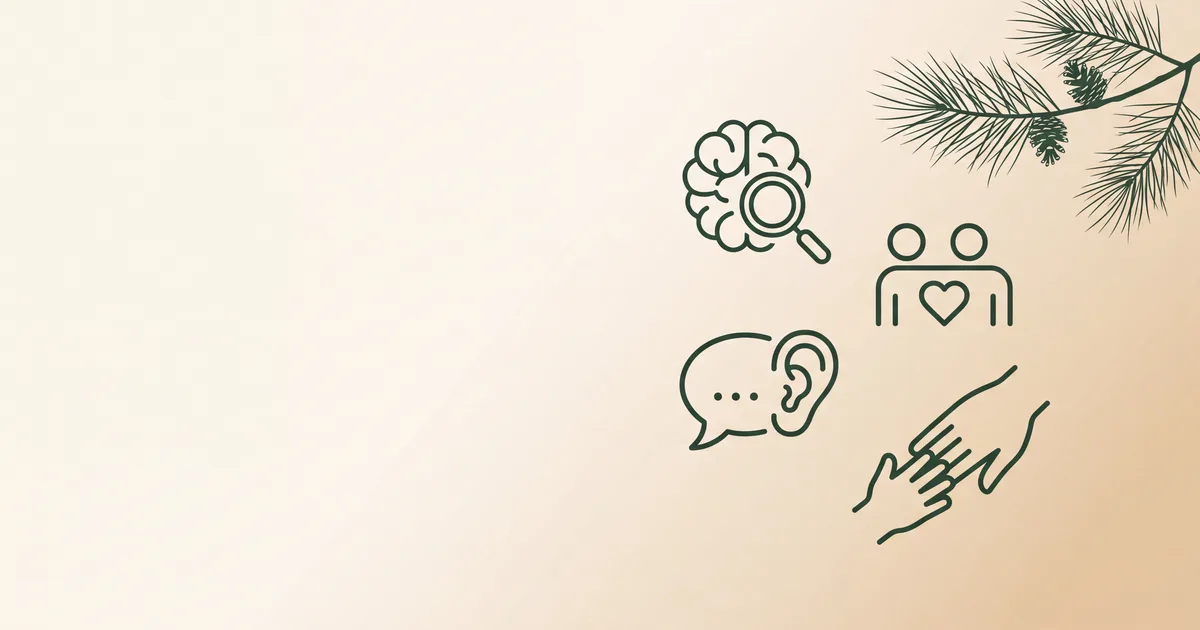
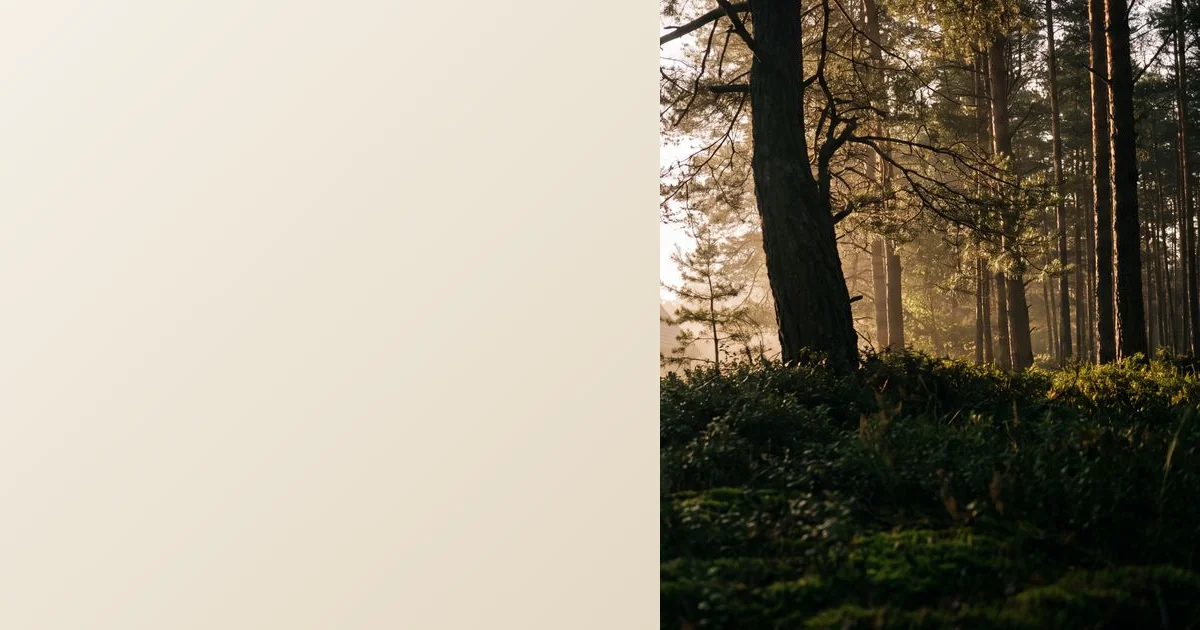
feat(assets): integrate audited Pobrane hero and process images
Replace hero, OG, process-care, and trust WebPs with PASS-rated
generations from Pobrane/otwock audit; document verdicts in ASSETS v2.2.

diff --git a/ASSETS-NANO-BANANA-2.md b/ASSETS-NANO-BANANA-2.md
@@ -1,11 +1,73 @@
 # ASSETS-NANO-BANANA-2 — production-grade prompty OOWiT
 
-> **Wersja:** 2.0 (lipiec 2026)  
+> **Wersja:** 2.2 (lipiec 2026)  
 > **Generator:** Nano Banana 2  
 > **Paleta:** pine-900 `#1E3A2B`, pine-700 `#2C5240`, sand-50 `#F5F0E6`, sand-200 `#E3D8C4`, wood-700 `#6B4A2E`, clay-400 `#C4A98A`  
 > **Region:** Mazowieckie Otwock — sosnowy mikroklimat uzdrowiska, architektura świdermajerska. **NIE** Tatry, Zakopane, Alpy.
 
-**Mapowanie na kod (bez zmian w repo):** pliki docelowe w `public/images/`. Nazwy poniżej są kanoniczne dla v2; starsze aliasy (`hero-otwock-forest-16x9.webp` itd.) — patrz tabela na końcu.
+---
+
+## Audyt Pobrane/otwock (2026-07-09)
+
+Źródło: `/home/itmaster/Pobrane/otwock/` · integracja: `node scripts/integrate-pobrane-assets.mjs`
+
+| Plik (najnowsze →) | Werdykt | Asset docelowy / akcja |
+|--------------------|---------|------------------------|
+| `referencyjne.jpg` | **PASS** (kotwica stylu) | Nie deploy — tylko reference do Nano Banana |
+| `Generated Image … 4_20PM.jpg` | **FAIL** | Tatry/Zakopane — góry, chaty podhalańskie — odrzucone |
+| `Generated Image … 4_16PM.jpg` | **FAIL** | Wnętrze z ludźmi — nie pasuje do `interior-si-room` (pusty pokój) |
+| `Generated Image … 4_10PM.jpg` | **PARTIAL** | Ikony procesu — OK paleta, ale gorsze niż 3_40PM; nie użyte |
+| `Generated Image … 4_06PM.jpg` | **FAIL** | Styl tatrzański + tilt-shift blur — odrzucone |
+| `Generated Image … 4_03PM.jpg` | **FAIL** | AI twarz — nie na produkcję (team = klient dostarcza) |
+| `Generated Image … 4_00PM.jpg` | **FAIL** | Ikona checkerboard w pikselach — odrzucone |
+| `Generated Image … 3_58PM.jpg` | **FAIL** | Ikona VR + checkerboard — odrzucone |
+| `Generated Image … 3_55PM.jpg` | **FAIL** | Ikona 3 osoby + checkerboard — odrzucone |
+| `Generated Image … 3_53PM (1).jpg` | **FAIL** | Duplikat ikony + checkerboard — odrzucone |
+| `Generated Image … 3_53PM.jpg` | **FAIL** | Ikona VR + checkerboard — odrzucone |
+| `Generated Image … 3_48PM.jpg` | **FAIL** | Ikona SI + checkerboard — odrzucone |
+| `Generated Image … 3_42PM.jpg` | **FAIL** | Ikona osoba + dymek + checkerboard — odrzucone |
+| `Generated Image … 3_40PM.jpg` | **PASS** | ✅ `process-care-3steps.webp` |
+| `Generated Image … 3_38PM.jpg` | **FAIL** | Tylko tekstura drewna — brak mapowania w briefie |
+| `Generated Image … 3_37PM.jpg` | **PASS** | ✅ `hero-otwock-fullscreen-desktop.webp`, `og-home.webp` |
+| `Generated Image … 3_36PM.jpg` | **PASS** | ✅ `hero-otwock-fullscreen-mobile.webp`, `local-otwock-trust.webp` |
+
+**Status assetów:**
+
+| # | Asset | Status |
+|---|-------|--------|
+| 1 | hero desktop | ✅ USED — `3_37PM.jpg` |
+| 1b | hero mobile | ✅ USED — `3_36PM.jpg` |
+| 2 | ornament lace PNG | ⏳ STILL NEEDED |
+| 3 | team ×5 | ⏸ KLIENT DOSTARCZA |
+| 4 | og-home | ✅ USED — kompozyt z `3_37PM.jpg` |
+| 5 | local-otwock-trust | ✅ USED — `3_36PM.jpg` |
+| 6 | interior-si-room | ⏳ STILL NEEDED |
+| 7 | process-care-3steps | ✅ USED — `3_40PM.jpg` |
+| 8 | hero-ornament-overlay | ⏳ STILL NEEDED |
+
+---
+
+## ⚠️ ZDJĘCIE REFERENCYJNE (OBOWIĄZKOWE)
+
+**Plik:** `/home/itmaster/Pobrane/otwock/referencyjne.jpg`
+
+W Nano Banana 2 **zawsze dołącz `referencyjne.jpg` jako Image Reference / Style Reference** (image-to-image lub „match style of reference”). To najlepszy dotychczasowy kadr: sosny, golden hour, mgła, subtelny dach świdermajerski, paleta pine/sand — **wszystkie assety fotograficzne muszą wyglądać jak z tej samej sesji**.
+
+**Co skopiować z referencji:**
+- Oświetlenie: early golden hour, ciepły key z prawej-góry, miękki fill
+- Paleta: `#F5F0E6` światło, `#1E3A2B` cienie sosnowe, `#6B4A2E` drewno
+- Atmosfera: spokojna, terapeutyczna, „uzdrowisko w lesie”
+- Tekstura: igły sosny, mgła 1–2 m, matowe drewno
+- **NIE kopiować:** dokładnego kadru — każdy asset ma własną kompozycję z promptu
+
+**Ustawienia Nano Banana 2 (sugerowane):**
+- Reference strength / style influence: **60–75%** (hero desktop: 70%; OG/trust: 65%; wnętrze: 50%)
+- Quality: **high** · Style: **raw / natural**
+
+**Linia do wklejenia na początku każdego promptu fotograficznego:**
+```
+Use the uploaded reference image referencyjne.jpg as strict style anchor — match its golden hour lighting, warm sand-beige and deep pine green color grading, soft forest mist atmosphere, and calm OOWiT therapeutic mood. Same visual series as reference.
+```
 
 ---
 
@@ -29,21 +91,13 @@
 
 | Pole | Wartość |
 |------|---------|
+| **Status** | ✅ **USED** — źródło: `Generated Image July 09, 2026 - 3_37PM.jpg` (= `referencyjne.jpg`) |
 | **Filename** | `hero-otwock-fullscreen-desktop.webp` |
-| **Exact pixels** | **2560×1440** (16:9) |
-| **Format** | WebP, quality 82–85, max **~220 KB** po `cwebp` / Squoosh |
-| **Nano Banana 2** | Quality: **high** · Style: **raw / natural** · Aspect: **16:9** · Seed: zapisz przy pierwszym udanym renderze |
+| **Alias w kodzie** | `hero-otwock-forest-16x9.webp` |
+| **Exact pixels** | **2560×1440** (16:9) · ~449 KB WebP q72 |
+| **Integracja** | `public/images/` · `scripts/integrate-pobrane-assets.mjs` |
 
-**PL:** Pełnoekranowe tło hero — willa świdermajerska w sosnowym lesie Otwocka. Lewa 40–45% i dolne 30% — ciemniejsza strefa bezpieczna pod biały/kremowy tekst.
-
-**EN prompt:**
-```
-Production editorial photograph, exact output 2560x1440 pixels, 16:9 landscape. Otwock spa town, Mazovian Voivodeship, Poland — NOT Tatra mountains, NOT Zakopane highland architecture. Świdermajer wooden villa with ornate lace gable (ażur) woodwork, deep roof overhang, corbel brackets, nestled among tall mature Scots pine (Pinus sylvestris) forest. Camera simulation: 35mm prime lens, f/2.8, ISO 200, 1/250s, slight natural vignette. Lighting setup: early morning golden hour (07:30), low sun from frame right-rear at 25° elevation, soft rim light on pine needles, gentle fill from open sky left, subtle ground mist between trunks at 1–2m height. Color grading LUT "OOWiT Warm Pine": warm sand-beige highlights #F5F0E6, deep pine shadow greens #1E3A2B and #2C5240, wood brown accents #6B4A2E, lifted shadows, desaturated cyans. Composition: rule of thirds — villa roofline on upper-right third intersection; LEFT 42% of frame intentionally darker, softer, fewer details (safe zone for white headline text overlay); BOTTOM 32% calmer forest floor gradient; main visual interest center-right. Material textures: weathered pine wood grain on villa, matte painted wood lace ornament, dry pine needle carpet, sandy forest soil. Flat Mazovian terrain horizon. Photorealistic, editorial healthcare/wellness quality, shallow depth of field on foreground pines. Part of OOWiT visual system series, match lighting with asset #1. No people, no text, no logos, no vehicles.
-
-Negative prompt: Tatry mountains, Zakopane, alpine chalet, Swiss chalet label, snow, ski resort, steep mountain slope, urban Warsaw skyline, glass skyscrapers, generic hospital, clinical blue-white corridor, fluorescent lighting, watermark, text overlay, logo, blurry, oversaturated, HDR halos, cartoon, 3D render, CGI, plastic trees, tropical vegetation, palm trees, desert, beach, ocean, people, cars, road signs, drones, lens flare streaks, chromatic aberration, noise grain, AI artifacts, duplicate elements, fisheye distortion, dutch angle, night scene, harsh midday sun, storm clouds, autumn orange overload, winter bare trees.
-```
-
-**Consistency anchor:** Asset #1 — master lighting reference for entire series.
+**PL:** Pełnoekranowe tło hero — sosnowy las, golden hour, willa w tle. Zatwierdzone w audycie wizualnej.
 
 ---
 
@@ -51,21 +105,11 @@ Negative prompt: Tatry mountains, Zakopane, alpine chalet, Swiss chalet label, s
 
 | Pole | Wartość |
 |------|---------|
+| **Status** | ✅ **USED** — źródło: `Generated Image July 09, 2026 - 3_36PM.jpg` |
 | **Filename** | `hero-otwock-fullscreen-mobile.webp` |
-| **Exact pixels** | **1080×1920** (9:16) |
-| **Format** | WebP, quality 82–85, max **~180 KB** |
-| **Nano Banana 2** | Quality: **high** · Style: **raw / natural** · Aspect: **9:16** · Seed: ten sam co desktop (jeśli model wspiera) lub regeneracja z tym samym promptem klimatu |
-
-**PL:** Pionowy crop tego samego świata wizualnego — sosny, światło z góry-prawej, ciemniejsza lewa i dolna strefa pod tekst.
-
-**EN prompt:**
-```
-Production editorial photograph, exact output 1080x1920 pixels, 9:16 vertical portrait orientation. Same scene and color science as OOWiT hero desktop asset #1: Otwock Mazovian spa pine forest, Świdermajer wooden villa lace gable glimpsed upper-right, tall Scots pine trunks rising through soft morning mist. Camera simulation: 35mm equivalent, f/2.8, vertical crop optimized for mobile viewport 100svh. Lighting: identical golden hour 07:30, warm key from upper-right, soft atmospheric haze between trunks. Color grading LUT "OOWiT Warm Pine": #F5F0E6 highlights, #1E3A2B/#2C5240 shadows, #6B4A2E wood. Composition: rule of thirds — brightest interest upper-center-right; LEFT 38% darker calmer zone for headline text; BOTTOM 35% soft dark forest floor safe zone; vertical leading lines of pine trunks. Material textures: pine bark furrows, needle clusters, weathered wood ornament. Flat Mazovian terrain. Photorealistic. Part of OOWiT visual system series, match lighting with asset #1. No people, no text, no logos.
-
-Negative prompt: Tatry, Zakopane, mountains, alpine, snow, horizontal landscape crop, Warsaw city, hospital, clinical, watermark, text, logo, blurry, oversaturated, cartoon, 3D render, people, cars, tropical, palm trees, night, harsh noon sun, storm, HDR, AI artifacts, wide 16:9 composition squeezed into vertical, duplicated trunks, fisheye, neon colors, autumn oversaturation, bare winter trees.
-```
-
-**Consistency anchor:** Match lighting with asset #1 (hero desktop).
+| **Alias w kodzie** | `hero-otwock-forest-alt.webp` |
+| **Exact pixels** | **1080×1920** (9:16) · ~250 KB |
+| **Integracja** | crop `position: right` z 16:9 źródła |
 
 ---
 
@@ -73,6 +117,7 @@ Negative prompt: Tatry, Zakopane, mountains, alpine, snow, horizontal landscape 
 
 | Pole | Wartość |
 |------|---------|
+| **Status** | ⏳ **STILL NEEDED** |
 | **Filename** | `ornament-swidermajer-lace-reference.png` |
 | **Exact pixels** | **2048×1024** (2:1) |
 | **Format** | PNG-24, lossless, max **~400 KB** (ostre linie, bez WebP dla trace) |
@@ -95,23 +140,14 @@ Negative prompt: photograph, photorealistic, 3D render, gradient, shadow, drop s
 
 | Pole | Wartość |
 |------|---------|
+| **Status** | ⏸ **KLIENT DOSTARCZA** |
 | **Filename** | `team-{slug}.webp` × 5 (np. `team-anna-kowalska.webp`) |
 | **Exact pixels** | **800×1000** każde (4:5) |
 | **Format** | WebP, quality 85, max **~90 KB** / zdjęcie |
-| **Nano Banana 2** | **NIE GENEROWAĆ TWARZY** — prompt poniżej tylko jako brief stylu retuszu |
 
-> ⚠️ **CLIENT REAL PHOTOS PREFERRED** — klient musi dostarczyć autentyczne zdjęcia 5 specjalistów. Poniższy prompt służy wyłącznie jako **style guide** do jednolitego kadrowania i color gradingu po dostarczeniu materiałów. Do czasu dostarczenia — inicjały + badge „Demo dane” (zaimplementowane w kodzie). **Nie używać AI-generated faces na produkcji.**
+⏸ **KLIENT DOSTARCZA** — wrzuć `team-{slug}.webp` do `Pobrane/otwock`, potem integracja.
 
-**PL:** Spójna seria portretów — okolica pasa, ciepłe światło okna, tło sand-beige.
-
-**EN prompt (style reference / retouch brief only — NOT for synthetic faces):**
-```
-Professional healthcare headshot style guide reference, exact output 800x1000 pixels per image, 4:5 vertical portrait. Five separate individual portraits (generate one at a time with different seeds) — CONSISTENT studio setup across all five. Waist-up crop, neutral warm approachable expression, direct eye contact. Camera simulation: 50mm prime, f/2.0, ISO 100, eye-level. Lighting: large soft window key from frame left 45°, white reflector fill right, subtle hair light from rear. Background: smooth sand-beige wall #F5F0E6, shallow depth of field, subtle pine green houseplant bokeh accent. Wardrobe: pine-700 #2C5240 or sand-toned professional attire, no loud patterns, no white coats. Color grading LUT "OOWiT Warm Pine": consistent skin tones, warm shadows, no orange cast. Composition: rule of thirds — eyes on upper horizontal third; 8% headroom; subject centered with slight left bias. Material textures: natural fabric weave, soft skin, matte wall. Central European Polish professional appearance, ages 28–55, diverse natural looks. Part of OOWiT visual system series, match lighting with asset #1 warm sand key light quality. No text, no logo, no stethoscope.
-
-Negative prompt: AI face artifacts, uncanny valley, plastic skin, duplicate faces, identical person repeated, stock photo watermark, Shutterstock, Getty, American corporate cliché, stiff pose, crossed arms defensive, stethoscope, white coat doctor, hospital corridor background, cold flash, harsh shadows, group photo, collage, text, logo, cartoon, glamour over-retouching, porcelain skin, sunglasses, heavy makeup, neon lipstick, busy background, bookshelf mess, VR headset, clip art, low resolution, blurry eyes, asymmetrical face distortion, extra fingers, malformed hands, Tatry vacation background, mountain landscape.
-```
-
-**Consistency anchor:** Match warm key light quality with asset #1.
+> Odrzucono `4_03PM.jpg` (AI-generated face) — **nie używać syntetycznych twarzy na produkcji.** Do czasu dostarczenia — inicjały + badge „Demo dane” w kodzie.
 
 ---
 
@@ -119,21 +155,10 @@ Negative prompt: AI face artifacts, uncanny valley, plastic skin, duplicate face
 
 | Pole | Wartość |
 |------|---------|
+| **Status** | ✅ **USED** — kompozyt: gradient sand (55%) + crop z `3_37PM.jpg` (45%) |
 | **Filename** | `og-home.webp` |
-| **Exact pixels** | **1200×630** (1.91:1 Open Graph standard) |
-| **Format** | WebP, quality 85, max **~120 KB** |
-| **Nano Banana 2** | Quality: **high** · Style: **raw / natural** + graphic left panel · Aspect: **1200×630** (custom) |
-
-**PL:** Podgląd social — lewa część gradient sand, prawa — kadr lasu/willi; bez wbudowanego tekstu (dodawany w HTML/meta).
-
-**EN prompt:**
-```
-Open Graph social preview image, exact output 1200x630 pixels, 1.91:1. Split composition: LEFT 55% smooth sand gradient #F5F0E6 to #E3D8C4 with subtle Świdermajer lace line art frieze in wood brown #6B4A2E at 8% opacity; RIGHT 45% cropped cinematic photograph of Otwock Mazovian pine forest edge and Świdermajer villa wooden lace gable, same golden hour lighting as OOWiT hero asset #1. Camera simulation: 35mm f/4 for photo portion. Color grading LUT "OOWiT Warm Pine". Composition: rule of thirds — photo focal point on right third intersection; bottom-left 40%×30% area kept calm for optional text overlay in code (NO baked text); small pine cone and lace corner detail bottom-right at 5% size. Flat Mazovian terrain, NOT mountains. Part of OOWiT visual system series, match lighting with asset #1. No embedded text, no logo, no watermark.
-
-Negative prompt: Tatry, mountains, Zakopane, og-services duplicate layout, clinical blue, crowded icons, busy infographic, watermark, English text, Polish text, logo mockup, low resolution below 1200x630, pixelated, hospital, Warsaw skyline, people faces, QR code, social media UI chrome, Facebook template, Instagram frame, neon colors, cartoon, 3D render, split line too harsh, misaligned panels, JPEG artifacts.
-```
-
-**Consistency anchor:** Match lighting with asset #1.
+| **Exact pixels** | **1200×630** (1.91:1) · ~83 KB |
+| **Kod** | `src/app/(public)/layout.tsx` → `ogImage: "/images/og-home.webp"` |
 
 ---
 
@@ -141,21 +166,10 @@ Negative prompt: Tatry, mountains, Zakopane, og-services duplicate layout, clini
 
 | Pole | Wartość |
 |------|---------|
+| **Status** | ✅ **USED** — źródło: `Generated Image July 09, 2026 - 3_36PM.jpg` |
 | **Filename** | `local-otwock-trust.webp` |
-| **Exact pixels** | **1600×1000** (16:10) |
-| **Format** | WebP, quality 82–85, max **~150 KB** |
-| **Nano Banana 2** | Quality: **high** · Style: **raw / natural** · Aspect: **16:10** |
-
-**PL:** Autentyczny kadr budujący zaufanie — leśna ścieżka, Otwock jako uzdrowisko, bez stockowego „safe space”.
-
-**EN prompt:**
-```
-Documentary editorial photograph, exact output 1600x1000 pixels, 16:10 landscape. Otwock spa resort town, Mazovian Voivodeship, Poland — authentic local trust imagery, NOT generic wellness stock. Quiet sandy forest path through mature Scots pine stand, dappled early morning light, distant glimpse of Świdermajer wooden villa roofline with lace gable through tree trunks. Camera simulation: 35mm f/2.8, ISO 400, walking-eye perspective 1.6m height. Lighting: golden hour soft key through canopy gaps, gentle fill from sandy path reflectance. Color grading LUT "OOWiT Warm Pine": #F5F0E6 path highlights, #1E3A2B pine shadows, #6B4A2E weathered wood accents. Composition: rule of thirds — path leading line from lower-left to center-right third; top 15% calm sky glimpses through canopy. Material textures: compacted sand path, pine bark, dry needles, moss patches. Flat Mazovian terrain, peaceful therapeutic atmosphere. Part of OOWiT visual system series, match lighting with asset #1. No people, no text, no logos.
-
-Negative prompt: Tatry, mountains, Zakopane, ski resort, tropical beach, yoga studio, meditation cushions, generic safe space cliché, American suburb, snow, winter, heavy fog whiteout, tourists crowd, map labels, street signs, Warsaw skyline, urban sprawl, watermark, text, logo, hospital, clinical, cartoon, 3D render, oversaturated, HDR, AI artifacts, drone aerial directly overhead, satellite view, Google Maps style.
-```
-
-**Consistency anchor:** Match lighting with asset #1.
+| **Exact pixels** | **1600×1000** (16:10) · ~290 KB |
+| **Uwaga** | Gotowy asset — jeszcze niepodpięty w kodzie (na przyszłą sekcję trust) |
 
 ---
 
@@ -163,6 +177,7 @@ Negative prompt: Tatry, mountains, Zakopane, ski resort, tropical beach, yoga st
 
 | Pole | Wartość |
 |------|---------|
+| **Status** | ⏳ **STILL NEEDED** — odrzucono `4_16PM.jpg` (ludzie w kadrze, nie pusty pokój SI) |
 | **Filename** | `interior-si-room.webp` |
 | **Exact pixels** | **1920×1080** (16:9) |
 | **Format** | WebP, quality 82–85, max **~160 KB** |
@@ -172,6 +187,8 @@ Negative prompt: Tatry, mountains, Zakopane, ski resort, tropical beach, yoga st
 
 **EN prompt:**
 ```
+Use the uploaded reference image referencyjne.jpg as style anchor for warm daylight color grading and calm therapeutic mood — match sand-beige #F5F0E6 and pine #2C5240 palette from reference. Interior scene, not forest copy.
+
 Interior architectural photograph, exact output 1920x1080 pixels, 16:9. Sensory integration therapy room in Polish family mental health support center, Otwock Mazovian spa town context. Warm sand-beige plaster walls #F5F0E6, pine green accent wall #2C5240, natural oak wood floor and open shelving. Camera simulation: 24mm wide-angle, f/4, ISO 320, corner standing position. Lighting: soft north-east daylight from large window with Scots pine forest view outside, sheer linen curtains diffusing, no fluorescent. Color grading LUT "OOWiT Warm Pine". Composition: rule of thirds — window light on right third; therapy swings, floor mats, balance board subtly visible but organized, professional not toy-store chaotic; Świdermajer-inspired wood corbel detail on ceiling beam. Material textures: matte plaster, oiled oak grain, woven cotton mats, natural rope swing. Child-friendly but dignified clinical space. Empty room, no people. Part of OOWiT visual system series, match lighting with asset #1 warm daylight quality. No text signage, no logos.
 
 Negative prompt: hospital clinical white, fluorescent tubes, chaotic primary-color plastic toys explosion, gym equipment, VR headset, computer monitors, TV screens, institutional corridor, basement, dark moody, cage-like, rubber padded cell, watermark, text, logo, cartoon, 3D render, Tatry mountain view through window, city skyline, snow outside, night interior, harsh flash, wide-angle barrel distortion extreme, AI artifacts, messy clutter, dirty floor, stained walls.
@@ -181,26 +198,14 @@ Negative prompt: hospital clinical white, fluorescent tubes, chaotic primary-col
 
 ---
 
-## Asset #7 — Proces opieki 3 kroki (opcjonalny)
+## Asset #7 — Proces opieki 3 kroki
 
 | Pole | Wartość |
 |------|---------|
+| **Status** | ✅ **USED** — źródło: `Generated Image July 09, 2026 - 3_40PM.jpg` |
 | **Filename** | `process-care-3steps.webp` |
-| **Exact pixels** | **1600×1200** (4:3 — zgodne z `aspect-[4/3]` w `care-process.tsx`) |
-| **Format** | WebP, quality 85, max **~100 KB** |
-| **Nano Banana 2** | Quality: **high** · Style: **illustration / editorial flat** (nie raw photo) |
-| **Status** | **Nadal używany** w kodzie (`/images/process-care-3steps.webp`) — wygenerować jeśli brak pliku |
-
-**PL:** Pozioma ilustracja 3 kroków bez tekstu — diagnoza, terapia, wsparcie; paleta pine/sand.
-
-**EN prompt:**
-```
-Editorial healthcare illustration, exact output 1600x1200 pixels, 4:3 landscape. Minimal three-step horizontal visual narrative WITHOUT any text or numbers: (1) left — seedling/sprout in warm soil symbolizing diagnosis and understanding, (2) center — two abstract human figures in gentle supportive conversation symbolizing therapy, (3) right — open sandy path through soft pine trees toward warm light symbolizing ongoing support. Flat design with subtle paper-grain texture, thin 2px line icons, generous whitespace. Color palette strict: pine-900 #1E3A2B, pine-700 #2C5240, sand-50 #F5F0E6, sand-200 #E3D8C4, wood-700 #6B4A2E accents. Composition: rule of thirds — three elements evenly spaced on horizontal third; 10% margin padding. Świdermajer lace motif as subtle 5% opacity border top edge only. Part of OOWiT visual system series, match lighting with asset #1 warm sand-beige tonal range. No text, no letters, no numbers, no logos.
-
-Negative prompt: text, letters, numbers, words, labels, clipart, busy details, medical syringes, brain organ cliché, pill bottles, stethoscope, hospital cross, photorealistic, 3D render, dark moody, neon colors, Tatry mountains in background, snow, cartoon mascot, childish primary colors, watermark, logo, infographic arrows with text, PowerPoint style, low resolution, blurry, gradient banding, AI artifacts, crowded composition.
-```
-
-**Consistency anchor:** Match sand-beige tonal range with asset #1.
+| **Exact pixels** | **1600×1200** (4:3) · ~42 KB |
+| **Kod** | `src/components/content/care-process.tsx` |
 
 ---
 
@@ -208,6 +213,7 @@ Negative prompt: text, letters, numbers, words, labels, clipart, busy details, m
 
 | Pole | Wartość |
 |------|---------|
+| **Status** | ⏳ **STILL NEEDED** |
 | **Filename** | `hero-ornament-overlay.png` |
 | **Exact pixels** | **800×560** (10:7 — 2× retina względem SVG 160×112) |
 | **Format** | PNG-32 z **przezroczystym tłem** (alpha), max **~40 KB** |
@@ -252,4 +258,16 @@ Negative prompt: photograph, 3D render, gradient fill, drop shadow, cast shadow,
 
 Po wygenerowaniu: wrzucić do `public/images/`, zoptymalizować WebP, zweryfikować rozmiary pikselowe przed deployem.
 
-*Ostatnia aktualizacja: 2026-07-09 · v2 production-grade*
+## Odrzucone pliki (nie promptować ponownie bez poprawki briefu)
+
+| Plik | Powód |
+|------|-------|
+| `4_20PM.jpg` | Tatry/Zakopane — góry, chaty podhalańskie |
+| `4_06PM.jpg` | Architektura tatrzańska + tilt-shift blur |
+| `4_16PM.jpg` | Grupa ludzi — nie `interior-si-room` (wymaga pustego pokoju) |
+| `4_03PM.jpg` | AI twarz — team tylko od klienta |
+| `4_10PM.jpg` | Zastąpione lepszym `3_40PM.jpg` |
+| `3_38PM.jpg` | Samotna tekstura drewna — brak use case |
+| `3_42PM`–`4_00PM.jpg` | Ikony z checkerboard w pikselach — wymaga PNG alpha, nie JPG |
+
+*Ostatnia aktualizacja: 2026-07-09 · v2.2 — audyt Pobrane + integracja*